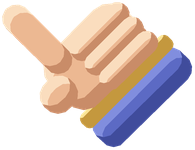
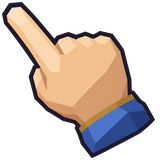
feat(tutorial): 튜토리얼 손 그림을 마우스 포인터 자세의 맨손 그림으로 교체
Pillow 로 그린 임시 손을 codex 로 생성한 그림으로 바꾼다. 손등이 보이는 맨손이
검지로 왼쪽 위를 가리키고 손목은 오른쪽 아래로 빠진다. 그림이 정사각형이 되어
Hand RectTransform 을 156x120 에서 136x136 으로 바꾸고, 손끝 pivot 을 .meta 와
prefab 두 곳에서 (0.0604, 0.9703) 으로 맞춘다. 외곽선은 .art/STYLE.md 에
TutorialHand 예외로 적는다.

diff --git a/.art/STYLE.md b/.art/STYLE.md
@@ -77,6 +77,25 @@ Do not extend this to other units. Anything else gaunt needs its own decision.
 - Max size by tier, aspect preserved, then trimmed tight:
   small `128x128`, middle `192x192`, big `256x256`.
 
+### Named exception — `TutorialHand`
+
+The tutorial pointer hand (`Assets/Art/Images/UI/Tutorial/TutorialHand.png`)
+carries a bold dark outline (`#1E1A2B`, about 4% of the drawing width). It is
+drawn over lobby and battle screens at about 64px on light and dark
+backgrounds, and the outlined candidates read on both where the unoutlined one
+did not. The user picked the outlined bare-hand candidate on 2026-10-11.
+
+- **Exempt from**: no outer contour line, and the three-quarter camera facing
+  right. It is the back of a bare right hand in a mouse-cursor pose: index
+  fingertip at the top-left, wrist leaving at the bottom-right, curled fingers
+  hidden behind the knuckle row.
+- **Still bound by**: faceted flat planes, three value bands, upper-left light,
+  the apprentice mage's skin tone and blue cuff with bronze trim, transparent
+  background.
+
+Do not extend this to sprites. Another UI pointer or cursor needs its own
+decision.
+
 Animation frames and aura assets follow `.art/ANIMATION-ASSETS.md`. Numeric
 state names such as `MagmaSpiritAttacking` identify attack frames, not separate units. Keep
 body scale, PPU, Bottom Center pivot, and ground contact invariant across frames.
